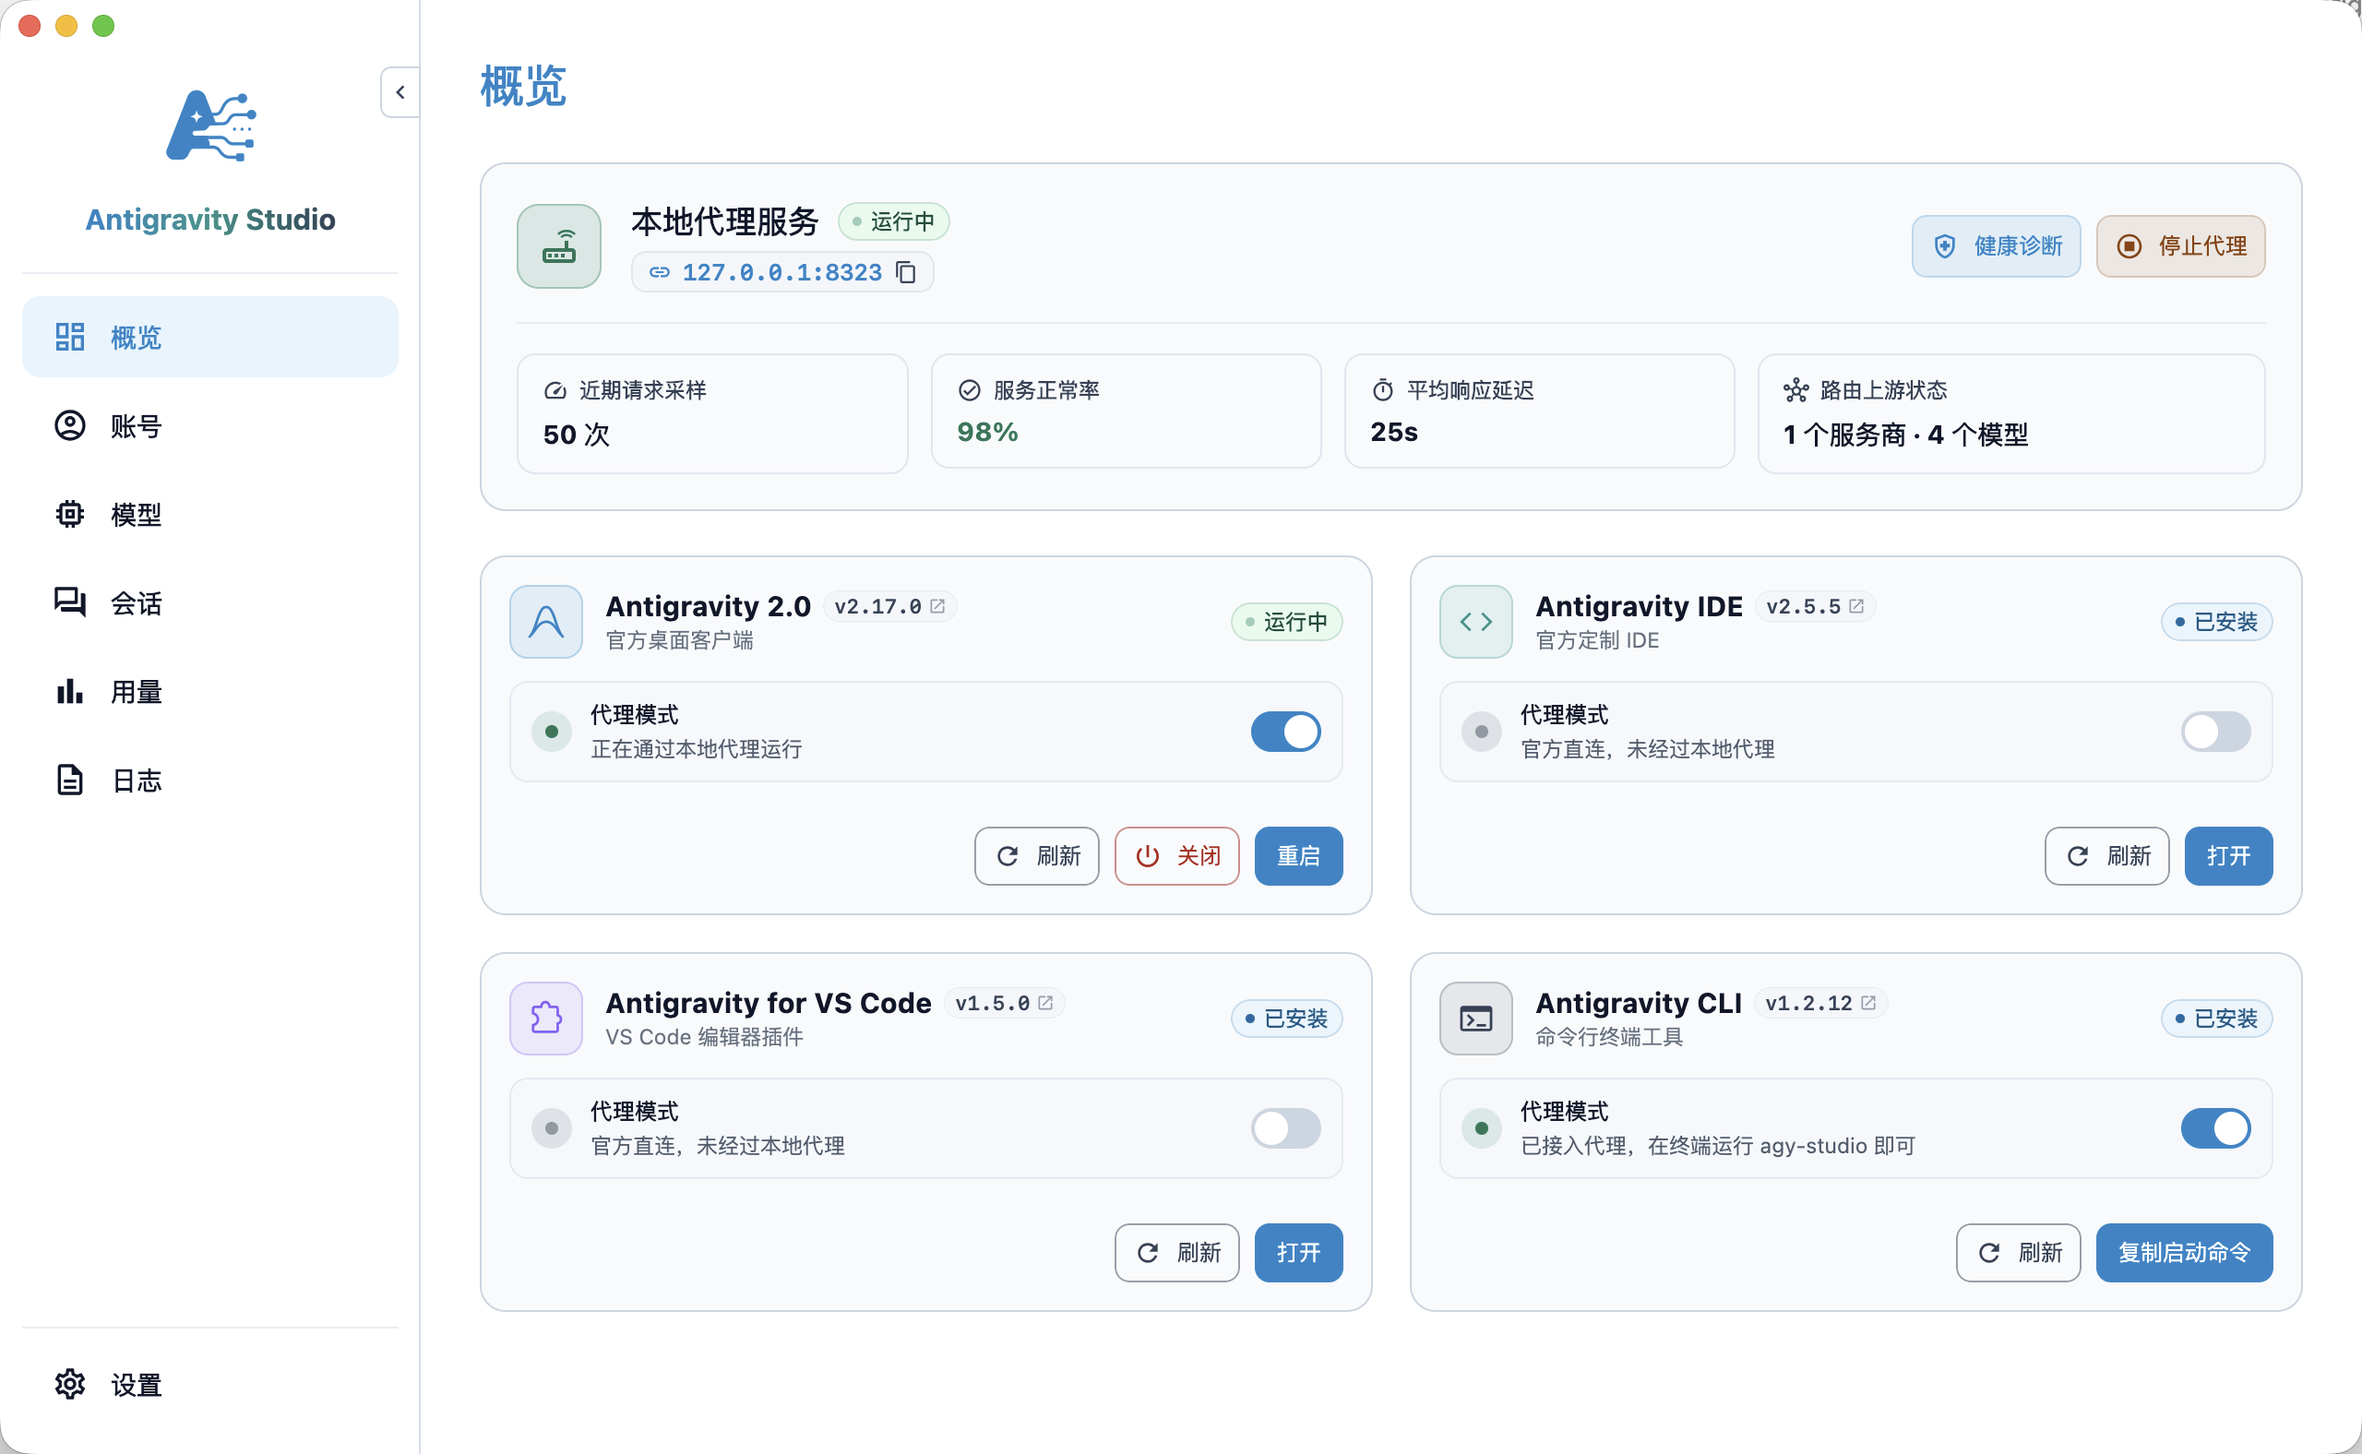
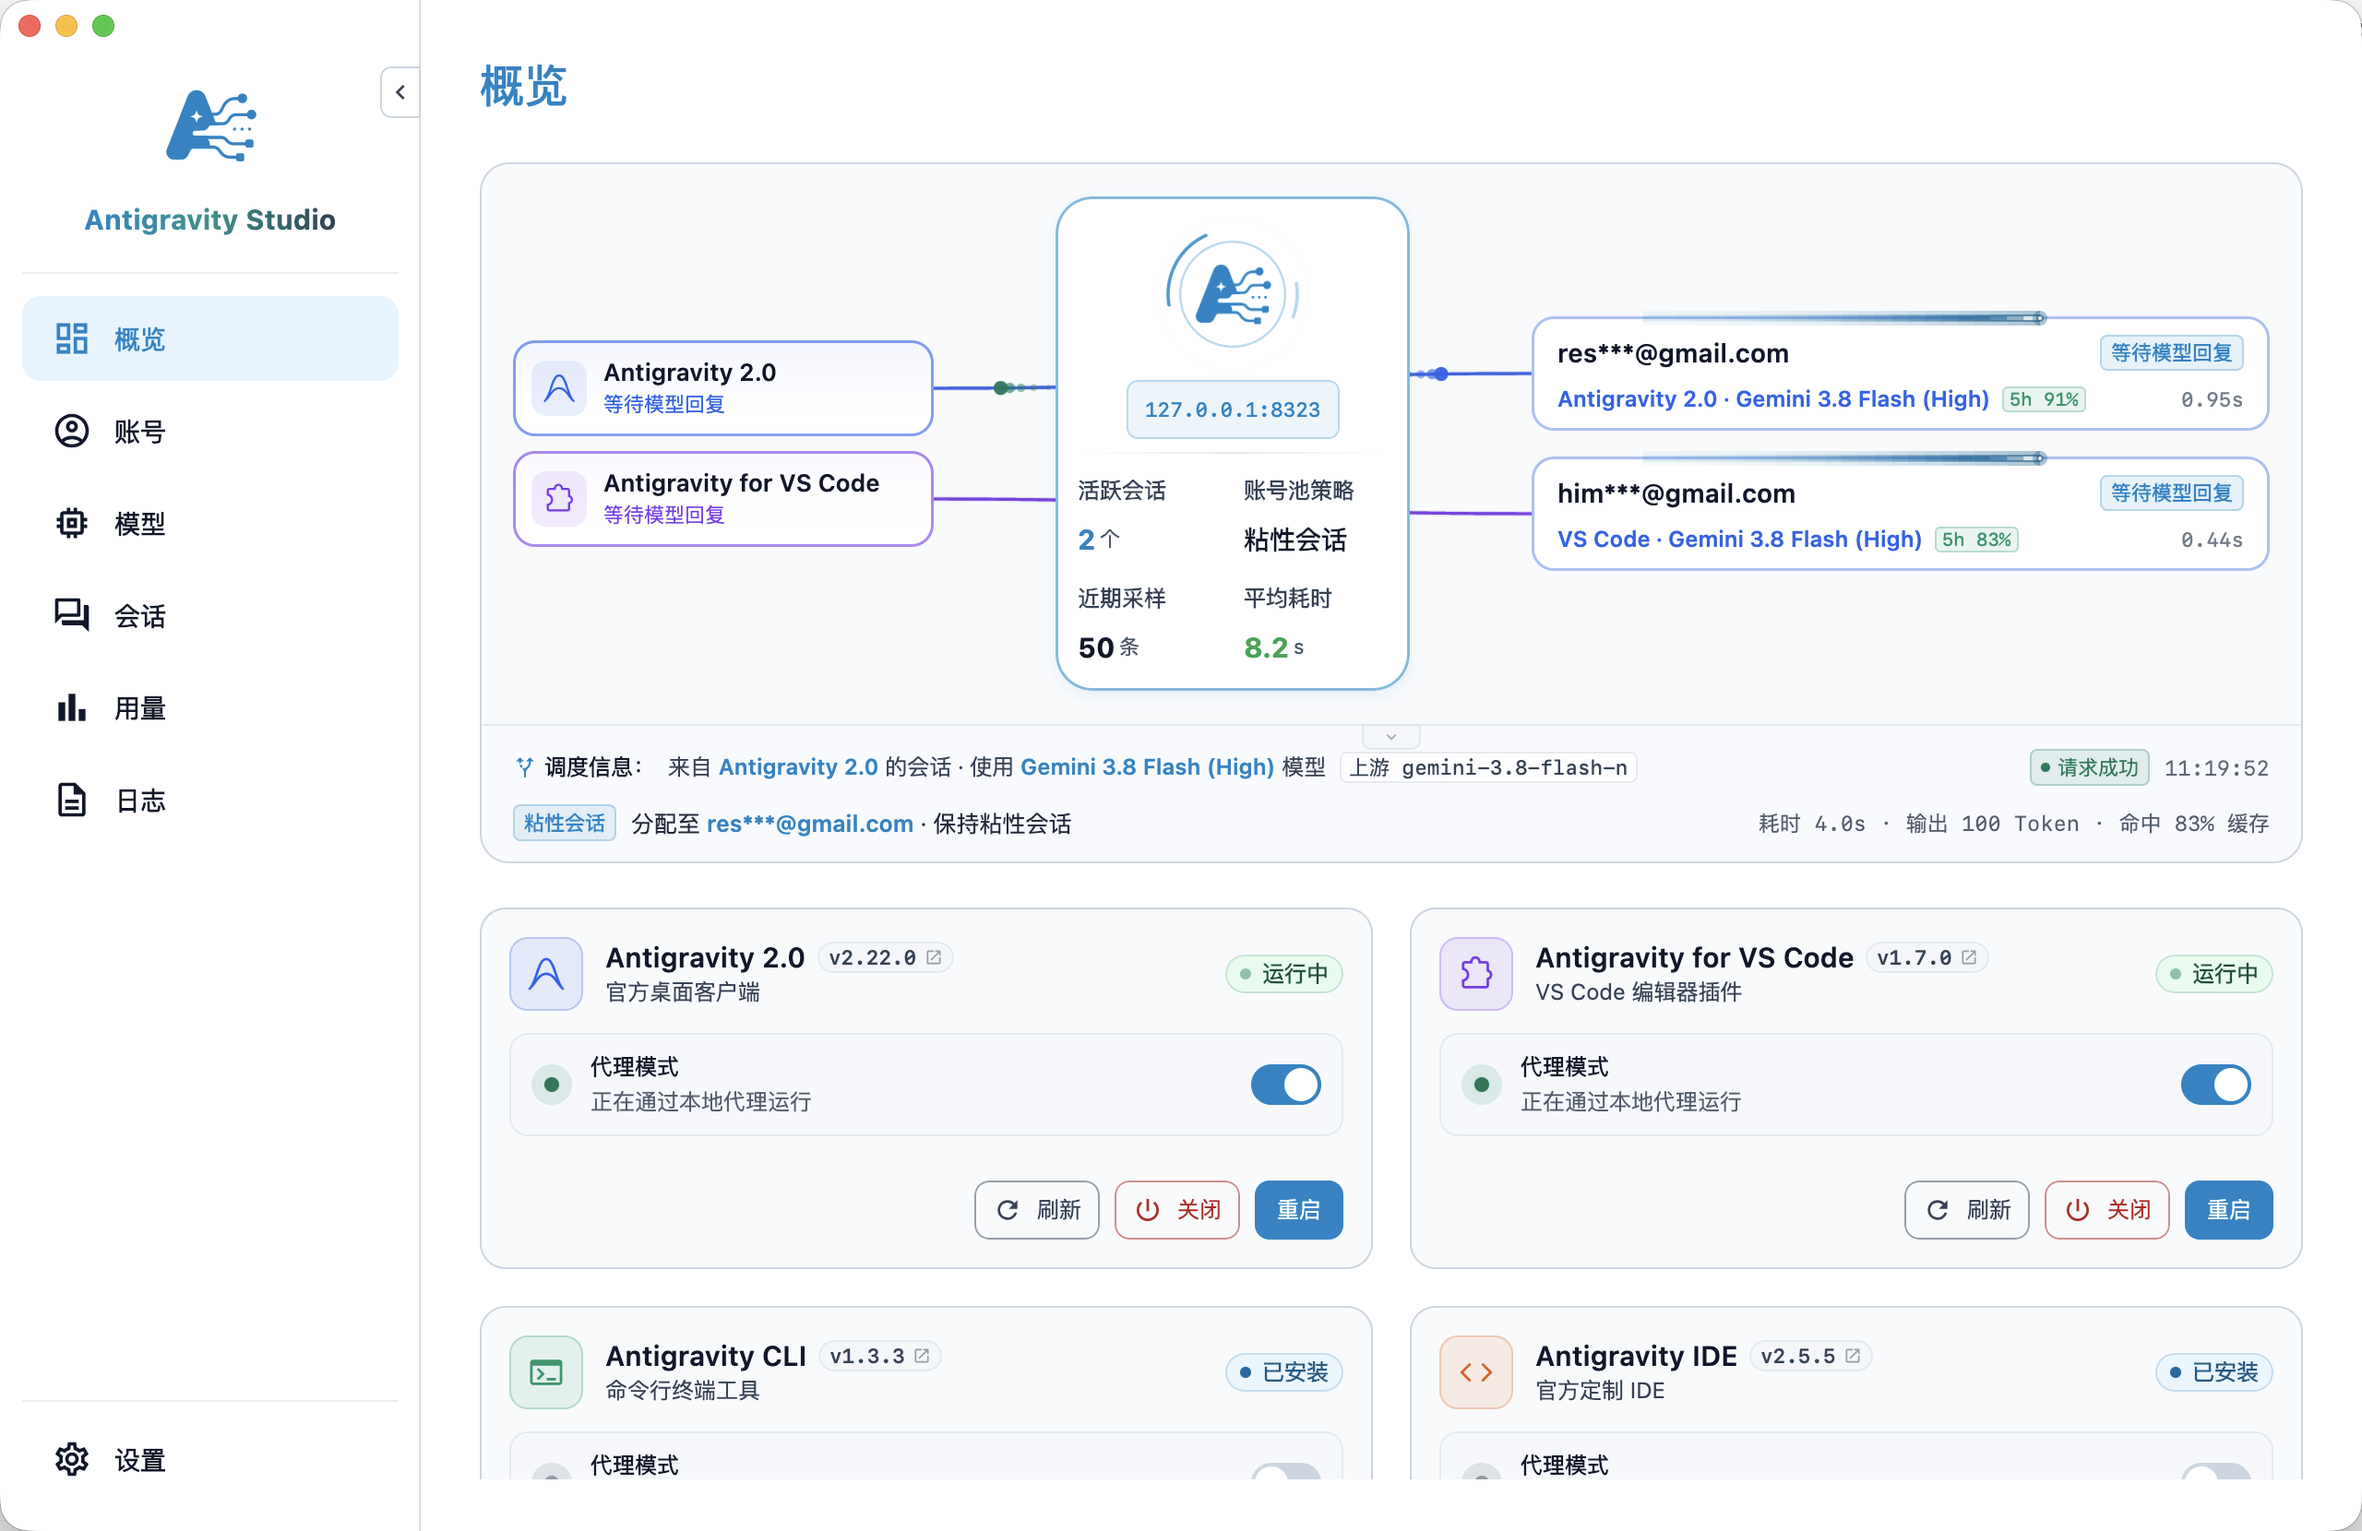
docs: 更新首页全景动态拓扑截图及 README 描述

diff --git a/README.en.md b/README.en.md
@@ -52,7 +52,7 @@ Add your Google accounts to a shared pool, and the local proxy routes traffic au
 ### 2. Bring Your Own Key (BYOK) for Any Model
 Connect your own models directly into Antigravity:
 
-- **34+ Provider Presets**: OpenAI, Anthropic, Gemini, DeepSeek, Ollama, OpenRouter, SiliconFlow, DashScope, Kimi, Zhipu, and more. Just plug in your API key.
+- **34+ Provider Presets**: OpenAI, Anthropic, Gemini, DeepSeek, Ollama, OpenRouter, Magpie, SiliconFlow, DashScope, Kimi, Zhipu, and more. Just plug in your API key.
 - **Reasoning Chains & Tool Calling**: Full streaming support for DeepSeek's thinking process, image inputs, and code tool calls.
 - **Custom Context Windows**: Expand model context thresholds (e.g. to 512K or 1M) to delay automatic summarization and preserve your code.
 - **Strictly Local & Direct**: Test connections with one click. Requests travel directly from your computer to the model provider, never through any third-party middleman.
@@ -62,12 +62,13 @@ Connect your own models directly into Antigravity:
 
 ---
 
-### 3. Clear Routing Insights & Live Dashboard
+### 3. Transparent Scheduling & Visual Routing Dashboard
 Never guess which account handled your request or why:
 
-- **Plain-English Causal Banner**: The bottom bar clearly displays the reason for each routing decision, such as "Session from Antigravity IDE · Routed to backup account: Primary quota below 5%", along with latency, token usage, and cache hit rates.
-- **Active Card Glow**: The account currently answering illuminates with a neat streamer border, color-coded by model family (Gemini blue/purple, Claude orange/red), and fades out when finished.
-- **Auto Port Shifting**: If port 8321 is busy, the tool automatically tries the next open port (like 8322). A banner pops up on the dashboard so you can update your editor settings in one click.
+- **Visual Routing Topology**: The top dashboard renders an interactive live topology map — connecting source clients (IDE / Desktop / CLI / VS Code) ➔ local proxy gateway ➔ active accounts and models with glowing flow lines, in-flight progress bars, and dedicated subagent indicators.
+- **Clear Dispatch Insights & Upstream Model Transparency**: The scheduler bar displays human-readable routing reasons and genuine model names (e.g. *"Session from Antigravity 2.0 · Using Gemini 3.8 Flash (High) · Routed to res\*\*\*@gmail.com · Sticky session"*), instantly reveals the active upstream model (e.g. `gemini-3.8-flash-n`), elapsed time, output tokens, and cache hit rate. It also folds smoothly into an edge handle for a cleaner canvas.
+- **Card Glow & Agent Working State Sync**: Serving nodes pulse with model-themed glow borders (Gemini blue-violet, Claude amber-red). The visual glow stays lit throughout local agent tool calls, terminal commands, and screenshots, fading out gracefully upon completion.
+- **Auto Port Shifting**: If port 8321 is busy, the tool automatically tries the next open port (like 8322/8323). A banner pops up on the dashboard so you can update your editor settings in one click.
 
 ---
 

diff --git a/README.md b/README.md
@@ -52,7 +52,7 @@ QQ 交流群：`613214996`（配置交流、答疑与新版本通知）
 ### 2. 自带 Key 接入任意模型（BYOK）
 手里的第三方模型可以无缝接入 Antigravity：
 
-- **内置 34+ 平台预设**：OpenAI、Anthropic、Gemini、DeepSeek、Ollama、OpenRouter、硅基流动、阿里云百炼、Kimi、智谱等，填上 API Key 就能用。
+- **内置 34+ 平台预设**：OpenAI、Anthropic、Gemini、DeepSeek、Ollama、OpenRouter、Magpie、硅基流动、阿里云百炼、Kimi、智谱等，填上 API Key 就能用。
 - **支持思考链与工具调用**：完整解析 DeepSeek 的思考过程（Thinking 流式输出），支持传图和调用代码工具（Tools）。
 - **自定义上下文长度**：支持把模型的上下文窗口调大（比如 512K 或 1M），推迟官方过早总结的时机，长对话也不用担心丢代码。
 - **纯本地直连**：填完 Key 可以一键测试连接。请求直接从你的电脑发给对应的服务商，中间没有任何第三方中转。
@@ -65,8 +65,9 @@ QQ 交流群：`613214996`（配置交流、答疑与新版本通知）
 ### 3. 一目了然的调度状态与大盘
 不用猜当前请求走的是哪个号、为什么选它：
 
-- **大白话调度情报**：主界面底栏会直接显示当前调度的原因，比如“来自 Antigravity IDE 的会话 · 分配至备用号：主号配额低于 5%，由备用号接管”，耗时、Token 消耗和缓存命中率一清二楚。
-- **服务状态边框**：正在回复的卡片会有流光提示，并且会按模型（Gemini 蓝紫色、Claude 橙红色等）区分颜色，AI 回复完自然熄灭。
+- **全景动态路由拓扑**：首页以动态连线与呼吸流光呈现“客户端 ➔ 本地网关中枢 ➔ 真实服务账号与模型”的全景拓扑图，主会话与子任务（Subagent）专属标识清晰区分，在途请求进度与耗时一目了然。
+- **直观调度情报与真实模型透出**：调度栏直接展示当前调度的具体原因与真实模型（如“来自 Antigravity 2.0 的会话 · 使用 Gemini 3.8 Flash (High) 模型 · 分配至 res***@gmail.com · 保持粘性会话”），上游实际响应模型（如 `gemini-3.8-flash-n`）、耗时、输出 Token 和缓存命中率一清二楚；支持随手折叠收起进贴边手柄，为大盘留出更多视野。
+- **服务状态边框与智能体活跃度感知**：正在回复的卡片与节点会有流光提示并按模型区分色彩，智能体在调用工具、运行命令与截屏期间持续保持活跃点亮，任务完成精准平滑淡出。
 - **端口冲突自动顺延**：如果默认的 8321 端口被其他软件占了，工具会自动往后尝试其他可用端口（如 8322），主界面还会弹出提示，点击一下就能把各个编辑器的配置同步过去。
 
 ---
